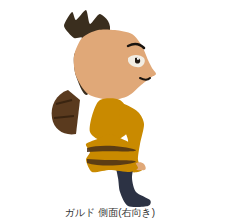
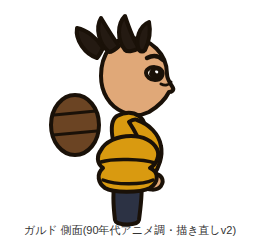
ガルドの三面図を90年代アニメ調の様式に描き直す(v2)
ユーザーから「画風が気に入らない、90年代の日本の漫画・アニメを
参考にしてほしい」との指摘を受け、太く均一な輪郭線・少ないアンカー
点で引く大胆な曲線・中サイズのアーモンド形の目・4つの大胆な髪の塊、
という様式的特徴をplan/models/anime-look-art-direction.md「3.5」に
言語化し、正面・側面の三面図を全面的に描き直した。

エプロンの膨らみは胴を一段絞ることで、黒塗りシルエットでも樽の
識別が残るよう強化した。側面の背負いダルも三日月形になっていた
失敗を直し、単純な卵形の塊にした。全塗り黒一色での確認で、
正面・側面とも色を消しても人物・生業の識別が残ることを確かめた。

3Dコードには引き続き触れていない。この描き直し版についても
ユーザーの承認を待つ(turnaround-drawing-craft.mdの自己承認禁止)。

design/characters/garudo/concept.md

Changed region(s): [[0.0875, 0.0273, 0.875, 1.0]]

diff --git a/design/characters/garudo/concept.md b/design/characters/garudo/concept.md
@@ -201,6 +201,42 @@ practice.md`が追加された。v1〜v3が(b)(c)で伸び悩んだ根本原因
 分離した丸い塊として輪郭に出るため、(b)は正面よりむしろ側面のほうが
 「何かを背負っている」と伝わりやすい。(a)(c)の判定は正面と同水準。
 
+## 画風の描き直し(v2、90年代アニメ調への参照)
+
+上記v1のレンダーPNGをユーザーに提示したところ、「画風が気に入らない。
+90年代の日本の漫画・アニメを参考にしてほしい」という指摘。特定作品・
+作家名はオリジナリティの規約により書かないが、特徴を
+`plan/models/anime-look-art-direction.md`「3.5」に言語化し、正面・
+側面とも全面的に描き直した(`garudo.svg`・`garudo-side.svg`を
+直接更新。v1のファイルは残っていない)。
+
+主な変更:
+
+- **すべての形に太く均一な輪郭線を実際に引いた**(v1は色面の境界
+  だけで縁取っていた)。
+- **アンカー点を大幅に減らし**、1本の弧を大胆に通す形に単純化した
+  (v1は多数の細かい制御点で輪郭が波打っていた)。
+- **目を中サイズのアーモンド形に縮小**した(v1は顔の大部分を占める
+  丸い大目だった)。
+- **髪を4つの大胆な塊に整理**した(v1は3房だが房ごとの主張が弱く、
+  房と地肌の塗り分けに頼っていた)。
+- 樽板エプロンは胴を一段細く絞り直すことで、エプロンの膨らみが
+  色を消しても(黒塗りシルエットでも)胴からはっきり張り出して
+  見えるよう強化した。側面の背負いダルも、中を刳り抜いた三日月形
+  になっていた失敗を直し、単純な卵形の塊に描き直した。
+
+### 自己検査(v2、正面・側面とも)
+
+(a) 組み立てた図でなく描いた絵に見えるか: **○** 太い輪郭線と大胆な
+形で、v1よりも明確に「意図を持って描かれた絵」に見える。
+(b) 黒塗りシルエットだけで人物・生業が読めるか: **○** 正面・側面
+とも、色を全て黒一色に置き換えた確認画像(`/tmp`で作業用に生成し
+確認。リポジトリには残していない)で、エプロンの膨らみ・背負い
+ダルの卵形がはっきり残ることを確認した。v1からの明確な改善。
+(c) パッケージの設定画として並んで恥ずかしくないか: **○→△**
+90年代アニメ調の様式に寄せたことで素朴さは大きく後退したが、
+最終判断はユーザーに委ねる。
+
 **3D側(garudo.py)には一切触れておらず、この正面・側面の三面図は
 ユーザーの承認を得るまで次の工程(3D反映)へは進めない**
 (`turnaround-drawing-craft.md`の自己承認禁止)。

diff --git a/plan/models/anime-look-art-direction.md b/plan/models/anime-look-art-direction.md
@@ -67,6 +67,34 @@
   シルエットに切れ込みが出る形に作る(アニメの髪の文法。房の数は
   少なくてよい。3〜6房で足りる)。
 
+### 3.5. 線画そのものの様式(90年代の日本のアニメ・漫画調を参照)
+
+`design/characters/garudo/turnarounds/garudo.svg`をユーザーが確認した
+結果、「画風が気に入らない」という指摘。**90年代の日本の漫画・
+アニメ**を参照するよう指示があった(特定の作家名・作品名は
+`design/`・コード・コミットメッセージに書かない。オリジナリティの
+規約どおり、様式の特徴だけを言葉で引く)。特徴を以下のように言語化する:
+
+- **輪郭線は太く、迷いなく引く**。色面の境界だけで縁取るのではなく、
+  すべての形に均一な太さの黒(または濃色)の輪郭線を実際に引く。
+  アンカー点は少なく、1本の弧を大胆に通す(細かい凹凸を積み重ねた
+  曖昧な曲線にしない)。
+- **目は大きすぎない**。顔の大部分を占める巨大な丸目ではなく、
+  中〜やや大きめのアーモンド形+力強い黒目とハイライト1〜2点。
+  白目の面積は控えめにする。
+- **髪は少数の大胆な塊**。房の数を絞り(3〜5本程度)、1本1本を
+  太く鋭い塊として描く。細かい毛束の集合にしない。
+- **体は単純な図形の自信を持った組み合わせ**。卵形・円柱など
+  少ない部品数で、輪郭に迷いが無いことを優先する。装飾
+  (エプロンの帯等)は主要な形を邪魔しない程度に絞る。
+- **色は少数の彩度高いフラットな面**(方針1のフラット色面と一致)。
+  グラデーション・ノイズは使わない。
+
+この様式規定は、既存の「2. 顔はアニメの文法で作る」「3. 髪は房で
+造形する」を置き換えるものではなく、**その実現の絵柄をより具体的に
+定める**もの。5体再設計ゲートの2Dコンセプト・三面図はこの様式で
+描き直す。
+
 ### 4. 5体再設計ゲートとの関係
 
 - `five-character-redesign-gate.md`の2Dコンセプト(1体3案以上)は、
